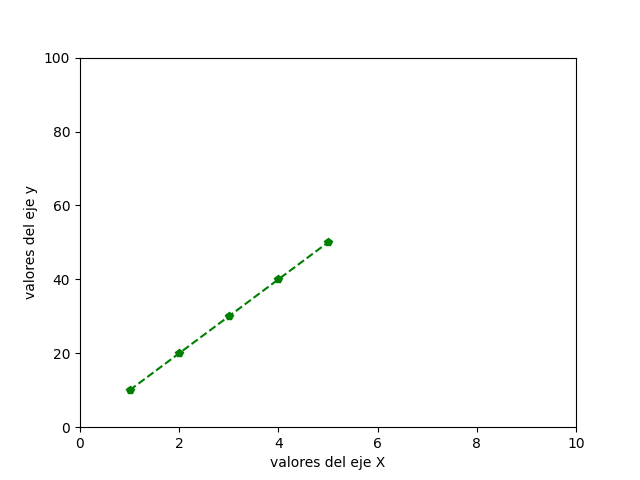
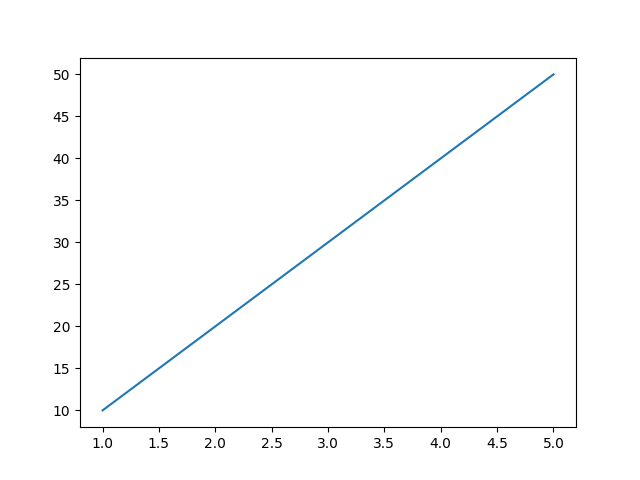
finished hello world

diff --git a/hello_world.py b/hello_world.py
@@ -1,5 +1,35 @@
 # asi se escriben los comentarios
 # en las primeras lineas van los imports
+import plots
+import numpy as np
 
 
-print('hello world!')
+# aca se definen las variables globales
+x = 9
+y = 'mineria de datos'
+z = False
+
+
+# asi se definen las funciones
+def saludar(nombre):
+    print("Hola", nombre, "!")
+
+    # si nombre tiene mas de 7 letras:
+    if len(nombre) > 7:
+        print('tienes un nombre largo')
+    else:
+        print('tu nombre no es tan largo...')
+
+    print('tu nombre tiene estas letras:')
+    for i in range(len (nombre)):
+        print(i, nombre[i])
+
+
+if __name__ == "__main__":
+    print('hola mundo!')
+    nombre = input('como es tu nombre? ')
+    saludar(nombre)
+    plots.basic()
+
+
+    
